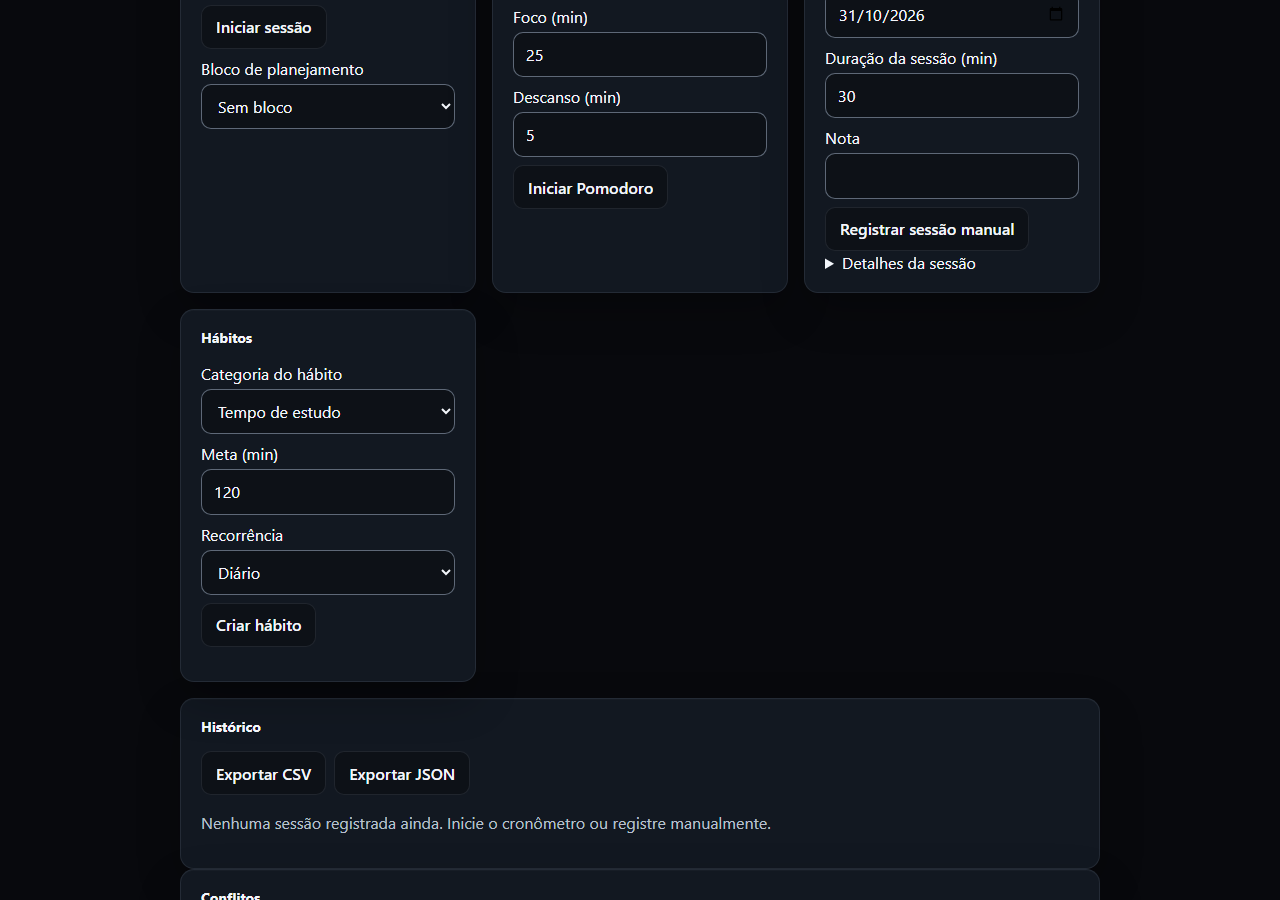
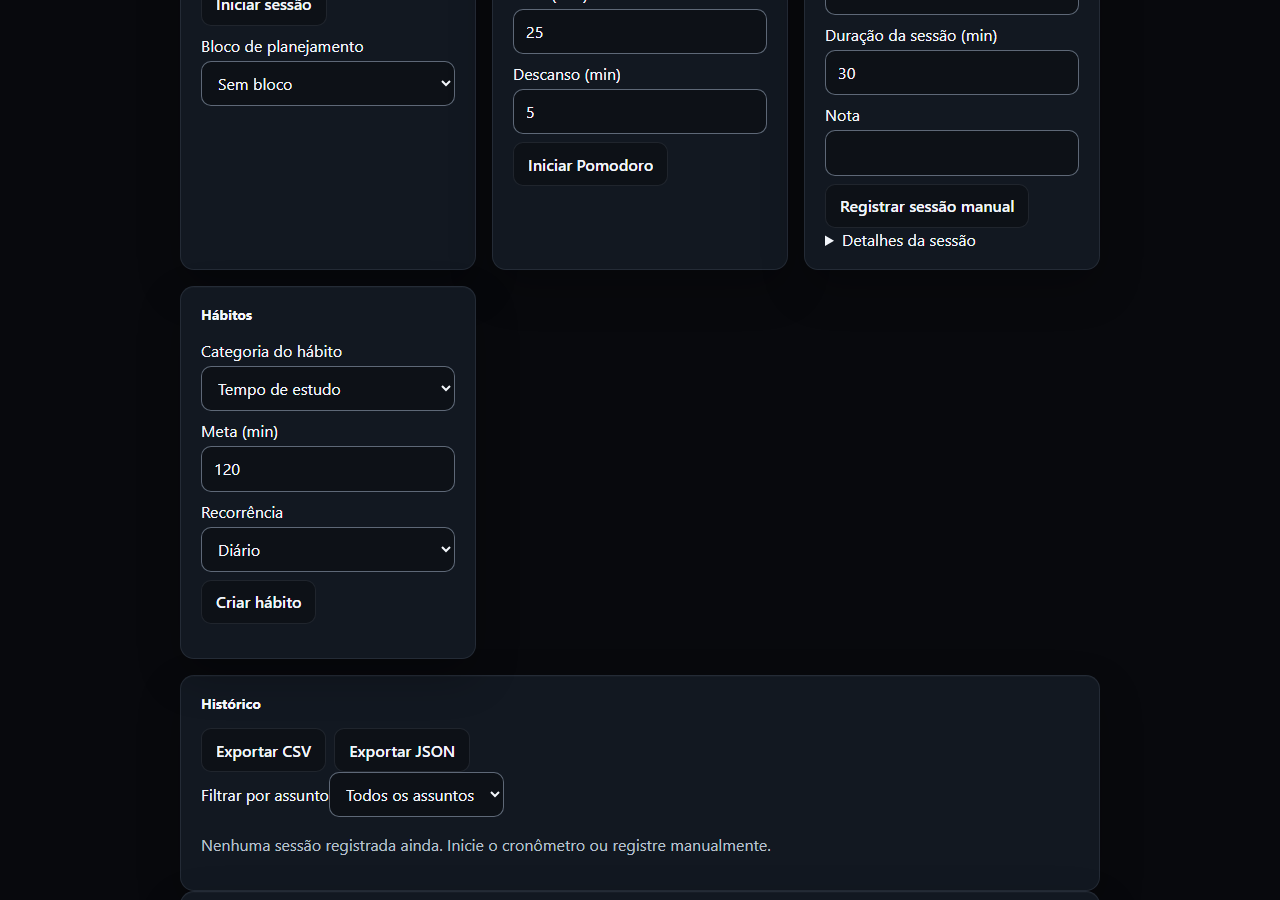
docs(v2-f4): record subject allocation and history filter
Report closes the subject-filter reservation, marks T38 as passed and points at dcce481; captures refresh with the new allocation field.

diff --git a/docs/superpowers/audits/2026-10-30-v2-f4-acceptance.md b/docs/superpowers/audits/2026-10-30-v2-f4-acceptance.md
@@ -3,7 +3,7 @@
 **Status:** F4_IMPLEMENTED_LOCAL_READY_FOR_HUMAN_ACCEPTANCE
 **Data:** 2026-10-31
 **Branch/worktree:** v2 em C:\Users\slvma\.codex\worktrees\v2-f4\estudo-organizado
-**HEAD de código:** bd5ac7f
+**HEAD de código:** dcce481
 **Remoto:** origin/v2 = 68db01542a9d5934c7e45e622001334f91eaaf4f; sem push, merge ou deploy.
 **main:** 9046cfa, intocada.
 
@@ -23,6 +23,7 @@
 - **Atualização PWA entre abas:** `queryOtherTabsReady()` pergunta às outras abas pelo BroadcastChannel `estudo-organizado-v2-update` em vez de assumir `true`.
 - **Histórico e conflitos:** filtro por `assuntoId` via alocações, listagem de revisões de auditoria por sessão e resolução `LOCAL/INCOMING/KEEP_BOTH` na UI.
 - **Histórico incremental:** a consulta percorre o índice `by_profile_date` em ordem decrescente com cursor opaco; a UI mostra as sessões mais recentes primeiro e oferece `session-history-more` para a próxima página.
+- **Filtro por assunto:** a alocação grava o assunto escolhido da disciplina e o histórico filtra por ele com o mesmo predicado da consulta.
 - **Vinculação posterior:** uma sessão livre pode ser ligada a um bloco planejado depois do fato, com nova revisão auditável (`session-link-block-*` e `session-link-apply-*`).
 - **Estado de persistência:** a linha de status distingue ocioso, salvo, falha de gravação e conflito de revisão, em vez de afirmar sempre que a persistência local está ativa.
 - **Superfície visual e acessibilidade:** estilos compartilhados de controle (altura mínima 44px, `focus-visible`, tokens dos oito temas), cartões de sessão, navegação e estado vazio informativo.
@@ -86,7 +87,7 @@
 | T35 DST e hora ambígua | PASS | unit `f4-dst` |
 | T36 hábito com meta atingida | PASS | `f4-habits` |
 | T37 evidência de hábito corrigida | PASS | unit `f4-habits` |
-| T38 histórico filtrado/revisão/materiais | PASS com ressalva | filtro por `assuntoId` e cursor sobre `by_profile_date`; o filtro só casa assunto quando a alocação o traz |
+| T38 histórico filtrado/revisão/materiais | PASS | filtro por `assuntoId` com assunto gravado pela UI e cursor sobre `by_profile_date` |
 | T39 CSV/JSON e sanitização | PASS | unit `f4-export` |
 | T40 quota/abort na conclusão | PASS | unit `f4-commit` (abort injetado) |
 | T41 export/reimport emergencial | PASS | `f4-emergency-ui` |
@@ -135,14 +136,13 @@ Ressalvas que a revisão levantou e que seguem abertas: validação de continuid
 - O histórico percorre o índice `by_profile_date` em ordem decrescente e para ao completar a página; filtros de edital, origem e estado são aplicados durante a varredura, então uma página filtrada pode percorrer mais entradas antes de encher.
 - A continuidade do relógio é verificada no preview de recuperação, não no caminho de pausa/conclusão; o checkpoint periódico limita a exposição a 15 s por transição.
 - `KEEP_BOTH` preserva a variante incoming no registro do conflito, sem criar uma segunda identidade de sessão.
-- A alocação criada pela UI grava `editalDisciplineId`; o filtro por `assuntoId` só casa quando a alocação traz o assunto explicitamente.
 - O gate Impeccable completo (auditoria visual dedicada) não foi executado; o detector automático passa com zero achados.
 - Sem push, merge, deploy, Actions ou ativação de Firebase real.
 
 ## Git e GitHub
 
-- v2 local: 43 commits à frente de origin/v2; código em bd5ac7f, este relatório no commit documental seguinte.
-- Commits desta rodada: b6dfec6 (atomicidade), 626f483 (alocações e filtro), c707665 (integração visual e fluxos), d793b36 (evidências visuais), 18a561b (correções da revisão independente), 1615422 (histórico incremental, vinculação posterior e auditoria de teclado), bd5ac7f (estado real de persistência).
+- v2 local: 45 commits à frente de origin/v2; código em dcce481, este relatório no commit documental seguinte.
+- Commits desta rodada: b6dfec6 (atomicidade), 626f483 (alocações e filtro), c707665 (integração visual e fluxos), d793b36 (evidências visuais), 18a561b (correções da revisão independente), 1615422 (histórico incremental, vinculação posterior e auditoria de teclado), bd5ac7f (estado real de persistência), dcce481 (assunto na alocação e filtro de histórico).
 - main: 9046cfa, intocada. V1 não modificada.
 - Dois worktrees (main e v2-f4); nenhum PR aberto; nenhum stash.
 - Nenhuma Action, deploy ou push.

diff --git a/docs/agent/HANDOFF.md b/docs/agent/HANDOFF.md
@@ -3,7 +3,7 @@
 **Atualizado:** 2026-10-31
 **Worktree:** `C:\Users\slvma\.codex\worktrees\v2-f4\estudo-organizado`
 **Branch:** `v2` (local, ahead de `origin/v2`; sem push)
-**HEAD no checkpoint:** `bd5ac7f`
+**HEAD no checkpoint:** `dcce481`
 
 ## Documentos
 
